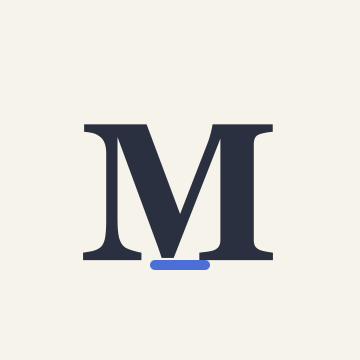
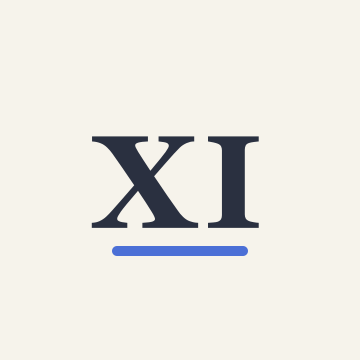
feat: PWA アイコンを XI に差し替える
別タブに残る Reader と、未保存動画の再生ボタン表示も直す。

Changed region(s): [[0.2139, 0.3361, 0.7639, 0.7639]]

diff --git a/src/components/AppChrome.tsx b/src/components/AppChrome.tsx
@@ -6,6 +6,7 @@ import { BottomDock, DockProvider } from "@/components/BottomDock";
 import { InstallHint } from "@/components/pwa/InstallHint";
 import { TabBar } from "@/components/TabBar";
 import { TickOnMount } from "@/components/TickOnMount";
+import { isReaderSlotActive } from "@/lib/reader-slot";
 
 export function AppChrome({
   children,
@@ -21,7 +22,7 @@ export function AppChrome({
   wide?: boolean;
 }) {
   const pathname = usePathname();
-  const readerOpen = Boolean(reader) && pathname.startsWith("/source/");
+  const readerOpen = Boolean(reader) && isReaderSlotActive(pathname);
   const useWide = wide || readerOpen;
 
   return (
@@ -35,7 +36,7 @@ export function AppChrome({
       >
         <TickOnMount />
         <div hidden={readerOpen}>{children}</div>
-        {reader}
+        {readerOpen ? reader : null}
         {account}
         {installHint ? <InstallHint /> : null}
         <BottomDock>

diff --git a/src/lib/reader-slot.test.ts b/src/lib/reader-slot.test.ts
@@ -1,0 +1,11 @@
+import { describe, expect, it } from "vitest";
+import { isReaderSlotActive } from "./reader-slot";
+
+describe("reader slot", () => {
+  it("is active only on source paths", () => {
+    expect(isReaderSlotActive("/source/01ABC")).toBe(true);
+    expect(isReaderSlotActive("/library")).toBe(false);
+    expect(isReaderSlotActive("/today")).toBe(false);
+    expect(isReaderSlotActive("/videos")).toBe(false);
+  });
+});

diff --git a/src/components/MediaGallery.tsx b/src/components/MediaGallery.tsx
@@ -85,7 +85,7 @@ function MediaTile({
           setImageFailed(true);
         }}
       />
-      {isVideo ? (
+      {playable ? (
         <span className="absolute inset-0 flex items-center justify-center">
           <span className="flex h-14 w-14 items-center justify-center rounded-full bg-ink/70 text-paper text-xl">
             ▶

diff --git a/src/lib/pwa.ts b/src/lib/pwa.ts
@@ -1,4 +1,4 @@
-export const PWA_CACHE_VERSION = "x-idea-v4";
+export const PWA_CACHE_VERSION = "x-idea-v5";
 export const PWA_READER_CACHE_LIMIT = 100;
 export const PWA_SOURCES_CACHE_LIMIT = 200;
 export const PWA_SOURCES_MAX_AGE_MS = 10 * 60 * 1000;

diff --git a/public/sw.js b/public/sw.js
@@ -1,4 +1,4 @@
-const VERSION = "x-idea-v4";
+const VERSION = "x-idea-v5";
 const PRECACHE = `${VERSION}-precache`;
 const RUNTIME = `${VERSION}-runtime`;
 const SOURCES = `${VERSION}-sources`;

diff --git a/src/lib/reader-slot.ts b/src/lib/reader-slot.ts
@@ -1,0 +1,3 @@
+export function isReaderSlotActive(pathname: string): boolean {
+  return pathname.startsWith("/source/");
+}

diff --git a/実装設計書_Xブックマーク・ナレッジベース.md b/実装設計書_Xブックマーク・ナレッジベース.md
@@ -376,7 +376,7 @@ UI/UX の判断に迷ったら以下に従う。
 
 ### 8.5 SC-06 Reader（Source 詳細）
 
-- **戻り**：ヘッダー「← ライブラリ」は直近の Library URL（並び・フィルタ・表示）へ戻す。`/library` 固定にはしない（8.3）。Library 起点では並列ルートで一覧を残す（ADR-016）。同じ並びの隣へは一覧に戻らず、ヘッダー内の丸いアウトライン（前／次）で進む。並びは直近の Library 一覧（フィルタ・ソート込み）。一覧に無い Source やディープリンクでは出さない。末尾にも同じ導線を残す。
+- **戻り**：ヘッダー「← ライブラリ」は直近の Library URL（並び・フィルタ・表示）へ戻す。`/library` 固定にはしない（8.3）。Library 起点では並列ルートで一覧を残す（ADR-016）。Today など別タブへ移ったときは Reader を出さない（スロットが残っても下部に重ねない）。同じ並びの隣へは一覧に戻らず、ヘッダー内の丸いアウトライン（前／次）で進む。並びは直近の Library 一覧（フィルタ・ソート込み）。一覧に無い Source やディープリンクでは出さない。末尾にも同じ導線を残す。
 - **ヒーロー**：投稿者アバター・名前・日時・X で開く。サムネイルは一覧からの `<ViewTransition name="source-{id}">` 共有要素。
 - **セグメント**：`原文 | 記事 | 要約`（記事がなければ 2 つ）。単一スクロールで、セグメントはアンカージャンプ。
 - **原文**：全文、引用投稿は入れ子カード、メディアはギャラリー（**ローカル保存を優先表示**（ADR-005）、画像タップでフルスクリーン、**OCR テキストを画像下に折り畳み表示**（P2））、**セルフスレッドは Reader で対象ごとに手動取得**し、取得後は折りたたみ（件数つき、既定は展開）。未取得時はボタン、トグル OFF 時は案内。未保存の動画はアプリ内再生せず **サムネイル＋「X で見る」＋「あとで保存」**（ダウンロードキューへ投入、14.6 / SC-15）。`video_downloads.status='ready'` の動画はサムネタップでアプリ内再生（**1本リピート** のトグルのみ。Library カードと同じ）。**保存済**は共通バッジ（緑アウトライン・紙色フィル・緑文字）。**キュー**（`queued` / `downloading`）は共通バッジ（黄アウトライン・紙色フィル・黄文字）。Reader ギャラリーはタイル下部だけに出し、サムネ上には重ねない。**Chrome 翻訳**（ADR-006）：原文に `lang` + `translate=yes`、日本語 UI は `translate=no`。本文側に「日本語に翻訳」（Chrome Translator API、端末内）と「原文を選択」（右クリック翻訳の起点）。Reader 上部に翻訳手順の常時説明は出さない。ボタンはかな優勢の日本語本文では出さず、**漢字だけの中国語など他言語では出す**。記事は投稿 `lang` を使わず、クリック時に Language Detector が本文を見る。X の自動翻訳文は API に無い。原文カラムは書き換えない。

diff --git a/docs/design/2026-09-09-library-load-cache.md b/docs/design/2026-09-09-library-load-cache.md
@@ -62,7 +62,7 @@ Library の query オプション:
 - 戻ったあとのスクロールは 1 回だけ戻す（高さが足りなければ追加ページを待つ）。読み込み中にユーザーがスクロールしたら打ち切る。遅延タイマーの `scrollTo` 連打はしない。
 - タブの `<Activity>`（T-213）は未実装。View Transition（`source-{id}`）だけ入っている。
 
-### 2.4 Service Worker（ADR-008 / `x-idea-v4`）
+### 2.4 Service Worker（ADR-008 / `x-idea-v5`）
 
 | 対象 | 戦略 | 問題 |
 | --- | --- | --- |
